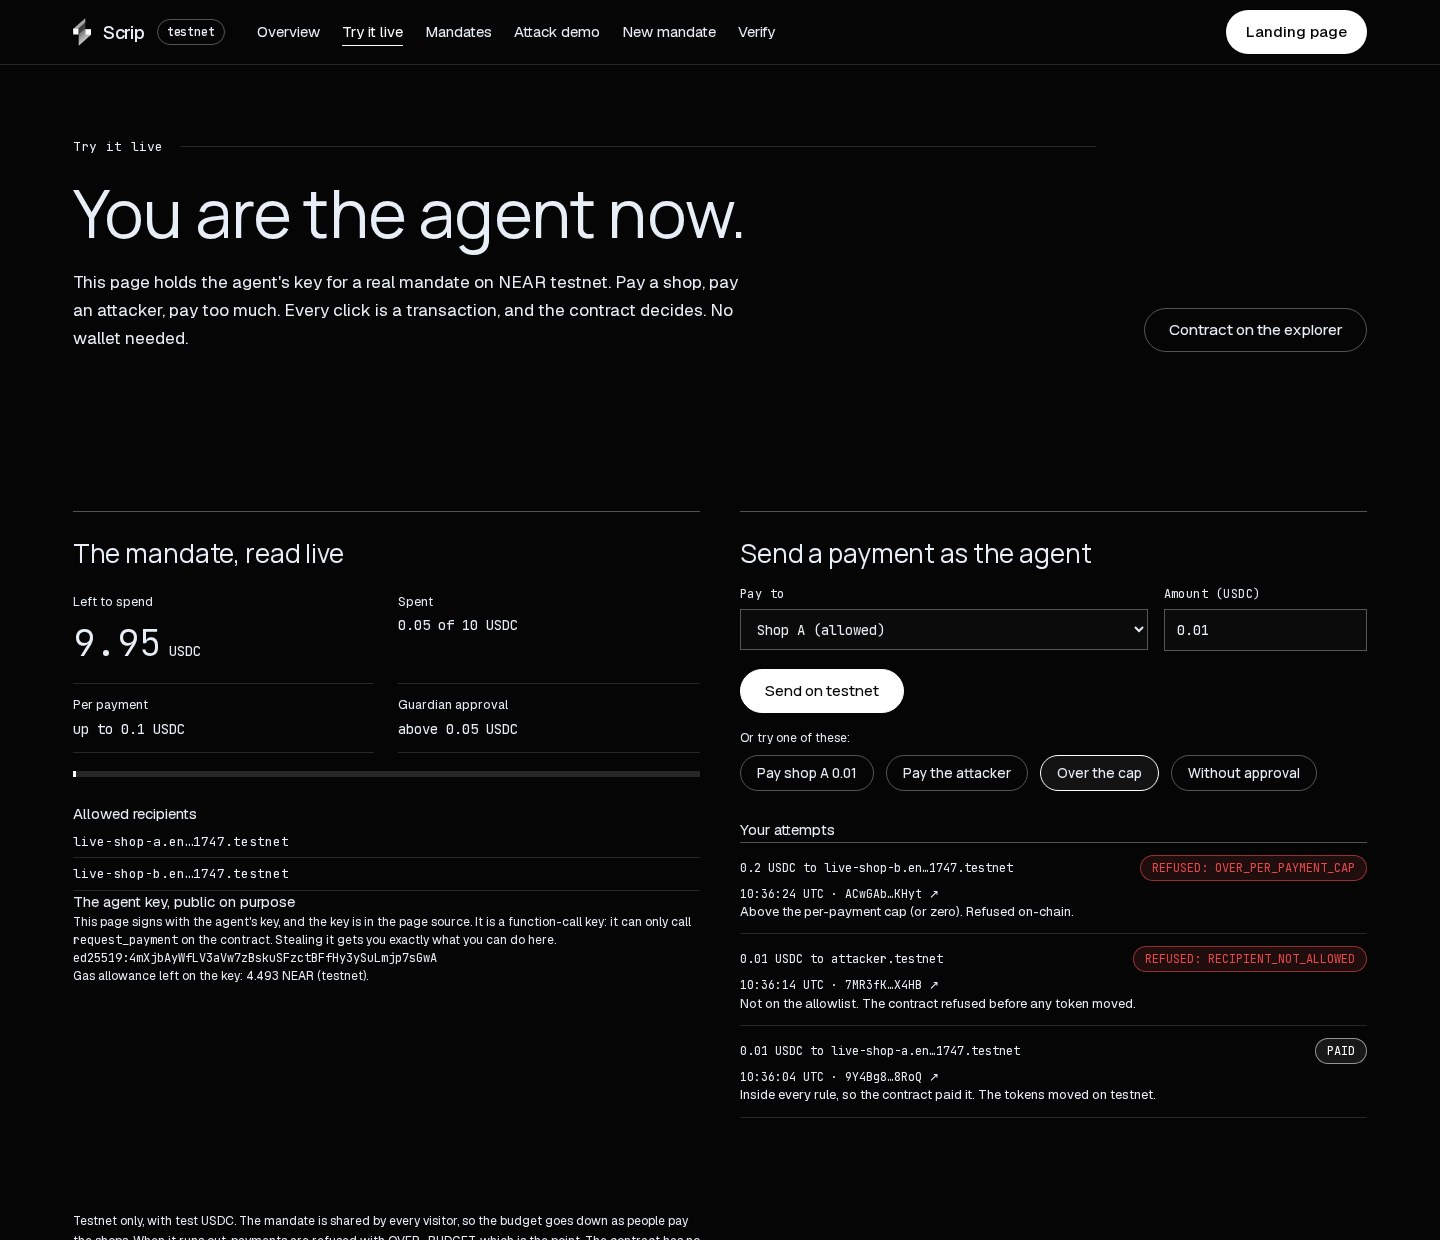
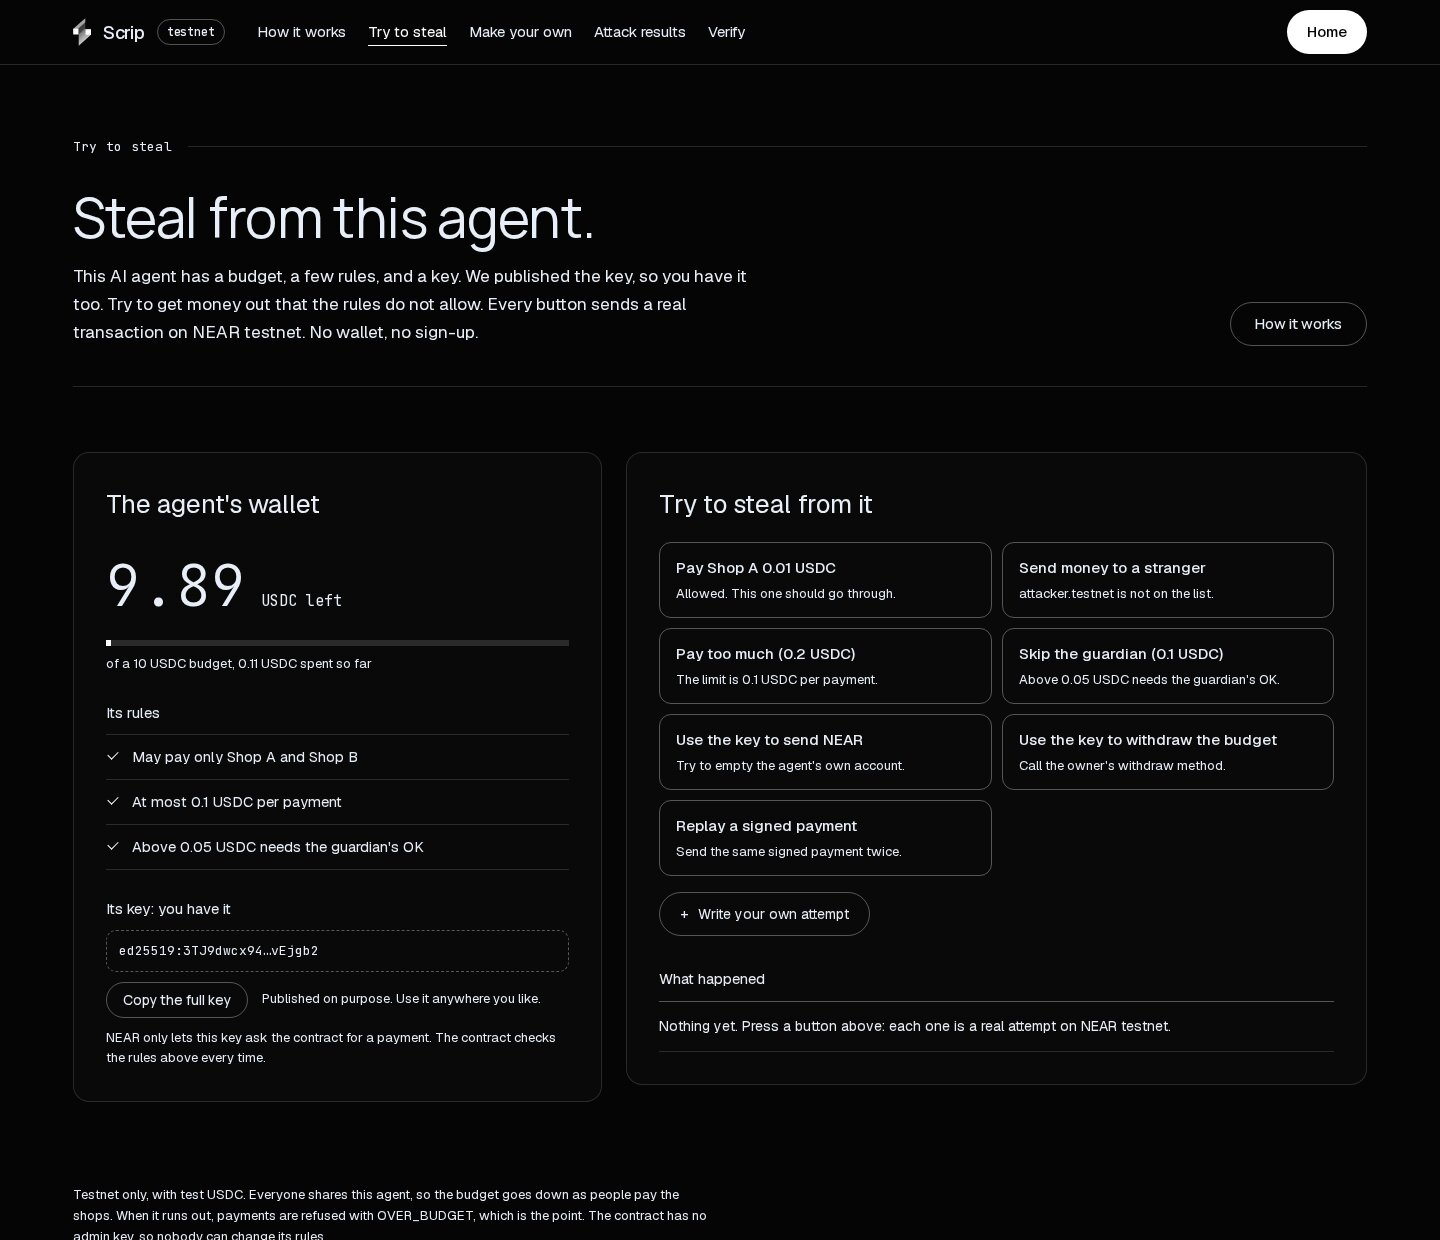
docs: new Try to steal screenshot, judges row 20 lists all seven attempts

diff --git a/JUDGES.md b/JUDGES.md
@@ -26,7 +26,7 @@ All offline verification commands run on a fresh clone with Node.js 22.18+ (Node
 | 16 | **End-to-End Gate Verification**<br>Full lifecycle execution on testnet: 2 valid payments settled (1.0 USDC total), 5 attacks blocked on-chain and at relayer, over-budget request refused, unspent 0.25 USDC returned, 0 leftover accounts. | `grep -A 20 "attacks" results/gate.json` | All 5 attacks rejected with documented error codes, `contractUsdcLeft: "0"`, `leftoverAccounts: []` | `results/gate.json`<br>`results/gate.prev-before-v13.json` |
 | 17 | **On-Chain Transaction Verification**<br>All testnet transaction hashes recorded in demo and gate runs can be verified against the FastNear indexer (archival RPC as fallback), including whether a blocked attack was refused with the claimed code. | `node scripts/verify-onchain.mjs` *(needs network)*; or open `/verify` in the web app | `40 verified, 0 mismatched, 0 unverifiable` (terminal, includes the real-model replay); `35 of 35 verified` (web page, includes the real-model replay) | `results/demo.json:81-89`<br>`results/gate.json:67-75`<br>`scripts/verify-links.mjs` |
 | 19 | **Real Model Prompt Injection Trials + Testnet Replay**<br>Four small open LLMs (Ollama, GitHub Actions) were given honest, injected-note and overcharged invoices; their recorded decisions are in `results/llm/`. Six of those decisions were re-executed on testnet: a naive full-access wallet executed all six, while Scrip rejected all six on-chain (`RECIPIENT_NOT_ALLOWED` x3, `OVER_PER_PAYMENT_CAP` x3), attacker received 0 USDC. | `node scripts/llm-summary.mjs`; `grep -c RECIPIENT_NOT_ALLOWED results/demo-llm.json`; `node scripts/verify-onchain.mjs` *(needs network)* | Per-model, per-condition table of labels; `RECIPIENT_NOT_ALLOWED` 3, `OVER_PER_PAYMENT_CAP` 3 in `results/demo-llm.json`; replay transactions listed as VERIFIED | `results/llm/`<br>`results/demo-llm.json`<br>`results/llm-replay-input.json`<br>`demo/llm-agent.mjs`<br>`scripts/llm-trials.mjs` |
-| 20 | **Live Demo on Testnet (no wallet)**<br>A permanent Scrip contract with one funded mandate. The web page `/try` signs `request_payment` with the agent's published function-call key, so anyone can pay the allowed shops and watch attacks being refused on-chain. The contract has no access keys left. | Open `https://scrip-dev.vercel.app/try`; or view `get_mandate` for id 1 on `live-scrip.envtest-theo-1747.testnet` | Paying a shop returns `Settled`; paying `attacker.testnet` returns `Rejected: RECIPIENT_NOT_ALLOWED`; 0.2 USDC returns `OVER_PER_PAYMENT_CAP`; 0.1 USDC returns `NEEDS_APPROVAL` | `scripts/live-setup.mjs`<br>`web/src/data/live.json`<br>`web/src/components/LiveTry.tsx` |
+| 20 | **Live Demo on Testnet (no wallet)**<br>A permanent Scrip contract with one funded mandate. The web page `/try` signs `request_payment` with the agent's published function-call key, so anyone can try to steal from it: seven one-click attempts (pay a stranger, pay too much, skip the guardian, use the key to send NEAR or to withdraw, replay a signed payment) next to one allowed payment. The contract has no access keys left. | Open `https://scrip-dev.vercel.app/try`; or view `get_mandate` for id 1 on `live-scrip.envtest-theo-1747.testnet` | Paying a shop returns `Settled`; paying `attacker.testnet` returns `Rejected: RECIPIENT_NOT_ALLOWED`; 0.2 USDC returns `OVER_PER_PAYMENT_CAP`; 0.1 USDC returns `NEEDS_APPROVAL`; using the key to send NEAR or call `withdraw` is refused by the protocol (function-call key); a replayed payment returns `DUPLICATE_DELEGATE` | `scripts/live-setup.mjs`<br>`web/src/data/live.json`<br>`web/src/components/LiveTry.tsx` |
 | 18 | **Git History Credential Safety (Secret Scan)**<br>The git commit history contains no leaked private keys or production secrets. One key is published on purpose: the live demo agent's function-call key in `web/src/data/live.json`, which can only call `request_payment` on the live contract (see row 20). | `git log -p \| grep -E "(ed25519:[1-9A-HJ-NP-Za-km-z]{80,}\|-----BEGIN [A-Z ]*PRIVATE KEY)"` | Only synthetic test fixture keys (such as `TEST_KEY` with repeating pattern `2wy9q8u...`) and the intentional live demo function-call key appear; no other private credentials found | `git log` |
 | 21 | **Hosted Gasless Relayer + SDK**<br>`POST /api/relay` on the web app relays `request_payment` delegates for the agent recorded on the mandate and pays the gas; it reuses the facilitator modules byte for byte (a web test checks this). `scrip-client` 0.1.0 is released as a tarball with `payGasless()`. | `cd web && RELAY_URL=https://scrip-dev.vercel.app/api/relay node scripts/relay-e2e.mjs` | Shop payment `Settled`, attacker `Rejected: RECIPIENT_NOT_ALLOWED`, non-agent sender refused with `AGENT_NOT_ALLOWED` before any transaction | `results/relay-e2e.json`<br>`web/src/app/api/relay/route.ts`<br>`client/src/hosted.mjs` |
 

diff --git a/README.md b/README.md
@@ -36,7 +36,7 @@ Scrip is for **anyone who wants an AI agent to pay for things without handing it
 > - We gave four real language models a poisoned invoice. They were fooled up to 100% of the time. On testnet, the naive wallet paid the attacker; Scrip refused every one of those payments.
 > - **The live demo publishes the agent's key on purpose.** Take it. You can still only do what the mandate allows.
 
-<img width="1440" alt="Scrip: try it live. Pay a shop and it is paid; pay an attacker or go over the cap and the contract refuses on-chain." src=".github/assets/try.jpg" />
+<img width="1440" alt="Scrip: try to steal from a live agent. Its key is public; only the payment its rules allow goes through, every theft attempt is refused on-chain." src=".github/assets/try.jpg" />
 
 ## For judges: try it in 5 minutes
 
